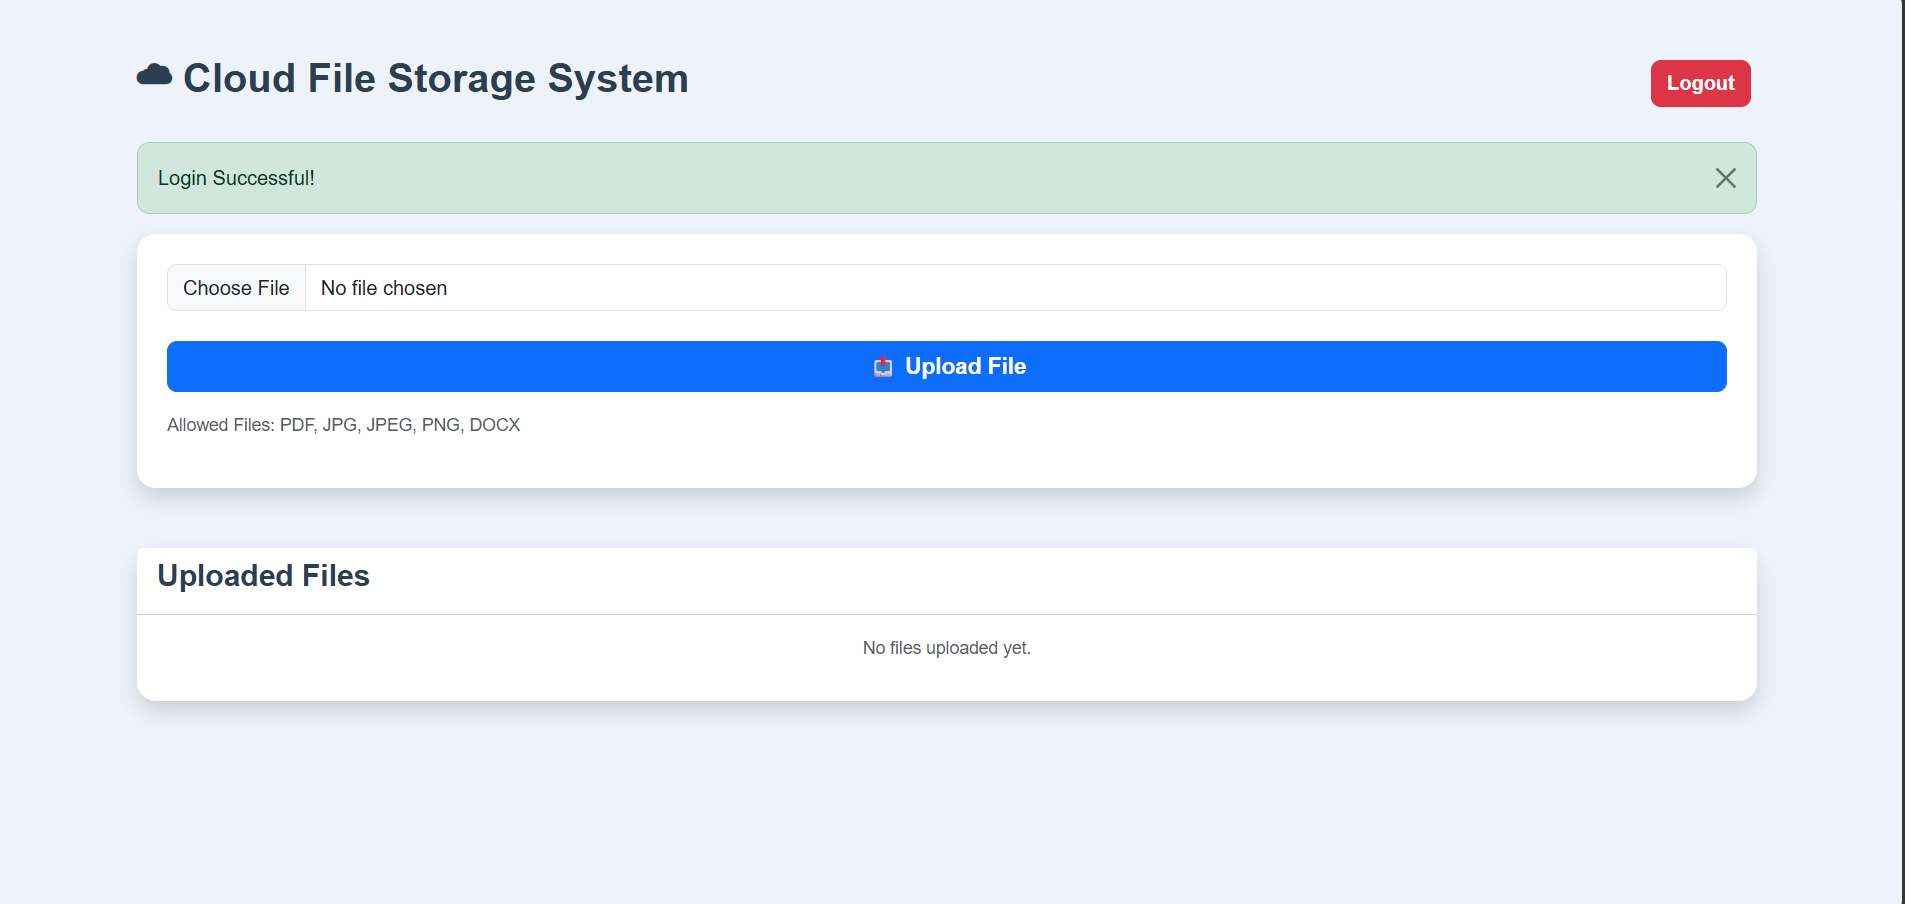
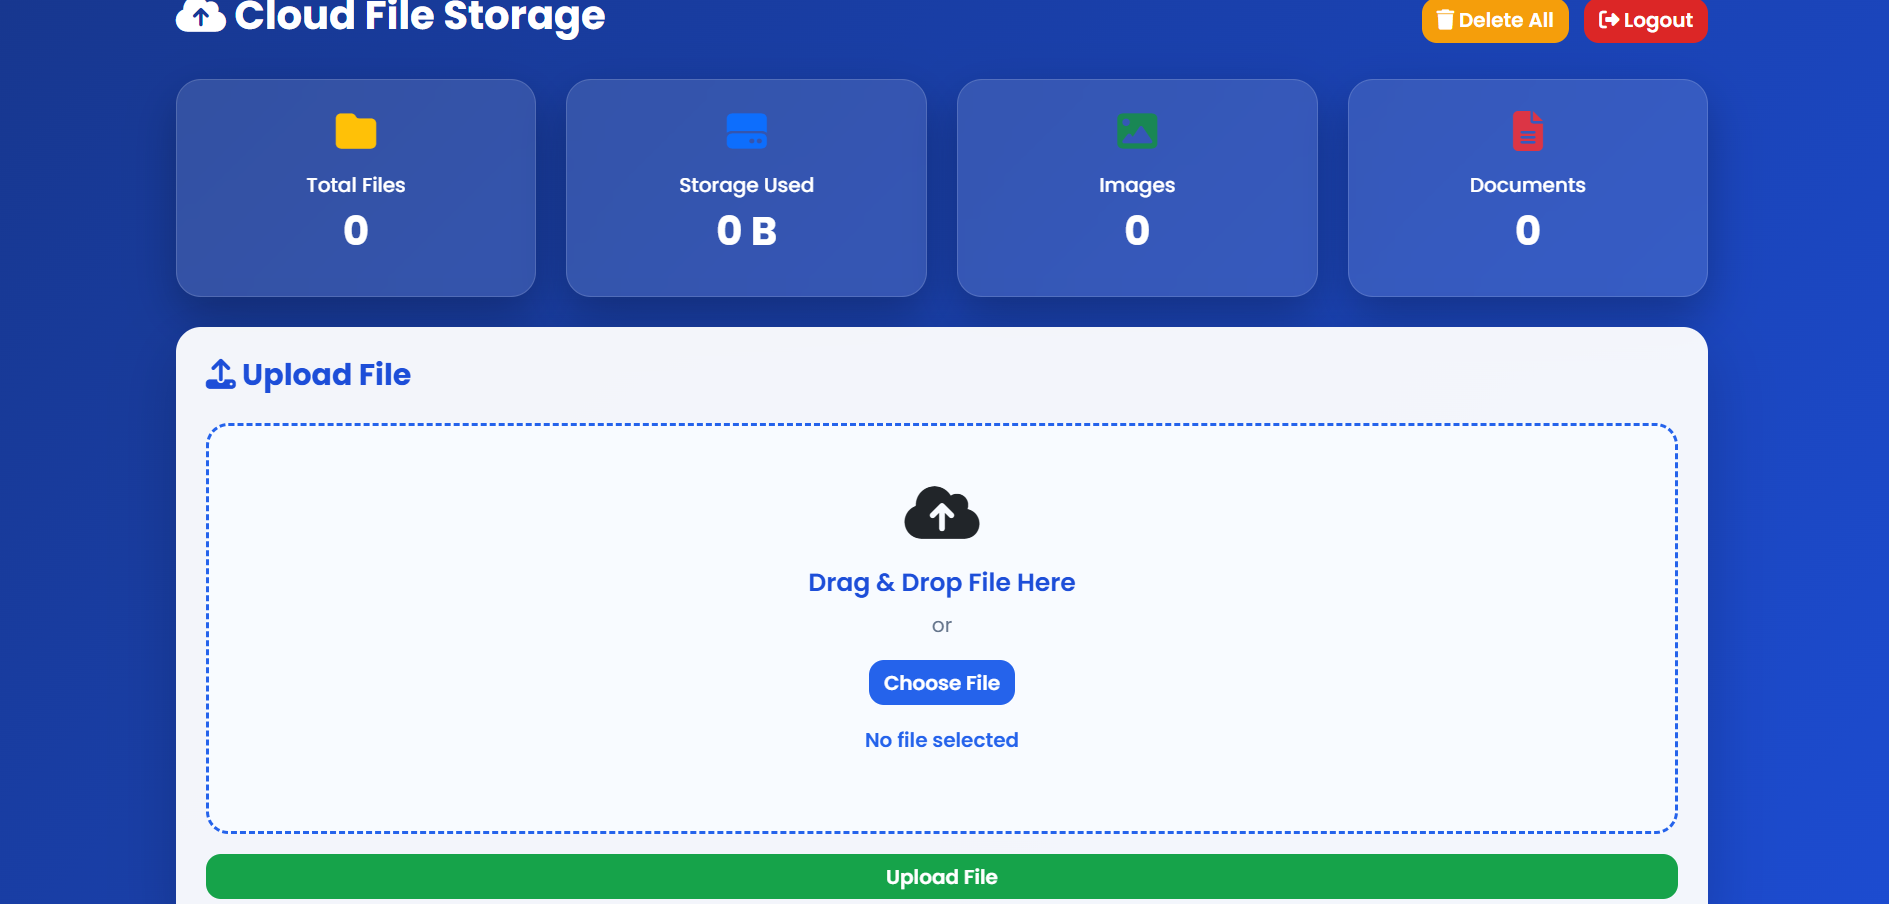
Update Task 1 screenshots

diff --git a/README.md b/README.md
@@ -1,93 +1,116 @@
-# Cloud File Storage System
+# ☁Cloud File Storage System
 
-A simple Cloud File Storage System built using Python Flask.
+> 📂 A secure web-based application for uploading and managing files, developed for the CODSOFT Cloud Computing Internship — Task 1.
 
-## Features
+## 🚀 Live Demo
 
-- User Login Authentication
-- Upload Files
-- View Files
-- Download Files
-- Delete Files
-- Share File Link
-- Responsive User Interface
+🟡 **Live Demo: https://cloud-file-storage-goutham.onrender.com
 
-## Technologies Used
+## ✨ Key Features
 
-- Python
-- Flask
-- HTML5
-- CSS3
-- Bootstrap
-- Git
-- GitHub
-- Render
+- 🔐 Secure Login
+- 📤 File Upload
+- 👁 File View / Management
+- ⬇ File Download
+- 🗑 File Delete
+- ✅ File Validation
+- 🔒 Basic Access Control
+- 📱 Responsive Web Interface
 
-## Login Credentials
+## 🎯 CODSOFT Task 1
 
-Username: admin
+The task requires a cloud-based application for uploading and managing files, with secure upload/download/view/delete operations, file validation, basic access permissions, and cloud storage such as AWS S3, Azure Blob Storage, or Google Cloud Storage. Shareable download links are listed as a bonus feature. 
 
-Password: admin123
+## 🛠 Technologies Used
 
-## Installation
+| Technology | Purpose |
+|---|---|
+| 🐍 Python | Backend |
+| 🌐 Flask | Web framework |
+| 🎨 HTML5 | Frontend |
+| 💅 CSS3 | Styling |
+| ⚡ JavaScript | Client-side interactions |
+| 🅱 Bootstrap | Responsive UI |
+| ☁ Cloud Storage | File persistence |
 
-1. Clone the repository
+## 📸 Screenshots
 
-```bash
-git clone https://github.com/Goutham2529/CODSOFT_TASK1.git
+Create a `screenshots/` folder:
+
+```text
+screenshots/
+├── login.png
+├── dashboard.png
+├── upload.png
 ```
 
-2. Go to project folder
+### 🔐 Login Page
+![Login](screenshots/login.png)
+
+### 🏠 Dashboard
+![Dashboard](screenshots/dashboard.png)
+
+### 📤 Upload
+![Upload](screenshots/upload.png)
+
+## 🔄 File Workflow
+
+```text
+👤 User
+   │
+   ▼
+🔐 Login
+   │
+   ▼
+📤 Upload File
+   │
+   ▼
+✅ Validate
+   │
+   ▼
+☁ Store
+   │
+   ├── 👁 View
+   ├── ⬇ Download
+   └── 🗑 Delete
+```
+
+## 🔐 Security
+
+- File-type validation
+- Secure file handling
+- Authenticated access
+- Controlled file operations
+- Input validation
+
+## ⚙ Run Locally
 
 ```bash
+git clone https://github.com/goutham2529/CODSOFT_TASK1.git
 cd CODSOFT_TASK1
-```
-
-3. Install dependencies
-
-```bash
 pip install -r requirements.txt
-```
-
-4. Run the project
-
-```bash
 python app.py
 ```
 
-5. Open in browser
+Open:
 
+```text
+http://127.0.0.1:5000/
 ```
-http://127.0.0.1:5000
-```
 
-## Live Demo
+## ☁ Cloud Deployment
 
-https://cloud-file-storage-goutham.onrender.com
+The official task specifies cloud storage such as AWS S3, Azure Blob Storage, or Google Cloud Storage. Configure the selected provider and credentials through environment variables for production deployment.
 
-## GitHub Repository
+## 🎓 Internship
 
-https://github.com/Goutham2529/CODSOFT_TASK1
-## Screenshots
+**CODSOFT Cloud Computing Internship**
 
-### Login Page
+### Task 1 — Cloud File Storage System
 
-<img width="1905" height="904" alt="Login" src="https://github.com/user-attachments/assets/6b43fe6f-894b-445e-b9d6-b349394edc96" />
+## 👨💻 Author
 
----
+**Goutham**  
+Computer Science Engineering — Data Science
 
-### Dashboard
-
-<img width="1904" height="909" alt="Dashboard" src="https://github.com/user-attachments/assets/de730670-6a4a-4879-8e60-541c8d95a69f" />
-
----
-
-### File Upload
-
-<img width="1906" height="907" alt="Upload" src="https://github.com/user-attachments/assets/88721a79-e4f2-4c83-874b-6c799240be59" />
-
----
-
-## Author
-
-Goutham
+**Repository:** https://github.com/goutham2529/CODSOFT_TASK1
